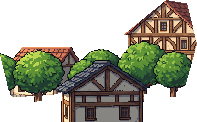
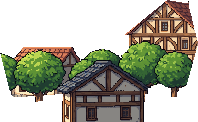
Tour des griffons : le pied dans l'herbe, sans pixels sur la maison
Le pied de la tour, coupé par la colline lisse de la maquette, finit en touffes d'herbe plutôt qu'en ligne droite
(seulement pour elle : ailleurs les touffes mangeaient des détails peints). Le décor de devant est bouché (la maquette de
la tour perçait le toit de la maison) et couvre aussi, sur 3 pixels, le bord peint d'un bâtiment qui déborde de sa
maquette.

diff --git a/tools/art/ville_scene.py b/tools/art/ville_scene.py
@@ -43,6 +43,32 @@ def bande(im):
     return im.crop((0, HAUT, im.width, HAUT + HAUTEUR))
 
 
+# les bâtiments dont le pied coupé par la colline finit en touffes (sur d'autres, elles mangeaient des détails peints :
+# les bouteilles sous l'étal du marché)
+TOUFFES = {"tour-griffons"}
+
+
+def touffes(src, k, toile, fond):
+    """Le pied d'un bâtiment coupé par la colline, en touffes d'herbe plutôt qu'en ligne droite : la colline de la
+    maquette est lisse, l'herbe n'est que peinte. Au-dessus de la coupe, l'herbe du fond se montre sur 0 à 5 pixels, en
+    brins inégaux, là où le sol sous la coupe est vert (pas sur la route). `toile` et `fond` : le rendu de 960 × 540."""
+    import random
+    cache = ImageChops.subtract(masque(os.path.join(src, "seul", k + ".png")),
+                                masque(os.path.join(src, "sur-sol", k + ".png"))).filter(ImageFilter.MaxFilter(5))
+    a = toile.getchannel("A"); ap, cp, fp = a.load(), cache.load(), fond.load()
+    hasard = random.Random(k)
+    for x in range(toile.width):
+        brin = hasard.choice([0, 1, 1, 2, 2, 3, 3, 4, 5])
+        for y in range(toile.height - 1):
+            if not ap[x, y] or not cp[x, y + 1]:
+                continue
+            r, g, b, _ = fp[x, y + 1]
+            if g > r and g > b:
+                for h in range(brin):
+                    ap[x, y - h] = 0
+    toile.putalpha(a)
+
+
 def sans_miettes(im, part=0.2):
     """Retire les morceaux détachés du bâtiment (8-connexes) plus petits que `part` du plus grand : ce que la coupe sous la
     colline laisse isolé (la porte de la Tour des archers, sous la colline) et les pixels perdus."""
@@ -90,7 +116,9 @@ def main():
     subprocess.run([sys.executable, "-I", os.path.join(src, "composer_scene.py"), "-jeu-vide"] + ids, stderr=subprocess.DEVNULL)
     if not os.path.exists(vide):
         sys.exit("composer_scene.py n'a pas fait le fond")
-    Image.open(vide).resize((960, HAUTEUR), Image.NEAREST).save(os.path.join(dest, "fond.png"))
+    fond = Image.open(vide).convert("RGBA").resize((960, HAUTEUR), Image.NEAREST)
+    fond.save(os.path.join(dest, "fond.png"))
+    fond_haut = Image.new("RGBA", (960, 540)); fond_haut.paste(fond, (0, HAUT))
     os.remove(vide)
     for f in ("scene-peinte-haute-jeu-vide.png", "planche-peints-jeu-vide.png"):
         if os.path.exists(os.path.join(src, f)): os.remove(os.path.join(src, f))
@@ -103,13 +131,18 @@ def main():
         """Le décor que rien ne cache devant le bâtiment k, les autres bâtiments retirés (rendre_devant.py) : sans eux,
         visible/decor.png manquait ce qu'un autre bâtiment cache dans la scène entière (devant la Tour des griffons)."""
         f = os.path.join(src, "decor-devant", k + ".png")
-        return ImageChops.multiply(masque(f if os.path.exists(f) else os.path.join(src, "visible", "decor.png")), decor.getchannel("A"))
+        vu = masque(f if os.path.exists(f) else os.path.join(src, "visible", "decor.png"))
+        # bouché : la maquette d'un bâtiment perce parfois une maison du décor (la Tour des griffons dans son toit)
+        vu = vu.filter(ImageFilter.MaxFilter(5)).filter(ImageFilter.MinFilter(5))
+        return ImageChops.multiply(vu, decor.getchannel("A"))
 
     batiments = []
     for k in sorted(ids, key=lambda k: -places[k]["profondeur"]):
         p = places[k]
         b = Image.open(os.path.join(src, "peints", k + ".png")).convert("RGBA").crop((0, 0, p["largeur"], p["hauteur"]))
         toile = Image.new("RGBA", decor.size); toile.alpha_composite(sans_miettes(sous_le_sol(src, k, p, b)), (p["x"], p["y"]))
+        if k in TOUFFES:
+            touffes(src, k, toile, fond_haut)
         im, x, y = rogner(bande(toile), marge=1)
         im.save(os.path.join(dest, k + ".png"))
         entree = {"id": k, "x": x, "y": y, "depth": p["profondeur"]}
@@ -132,7 +165,13 @@ def main():
                 entree.update({"shadowX": sx, "shadowY": sy})
         # le décor qui passe devant ce bâtiment (en 3D), redessiné juste après lui quand il est bâti
         devant = Image.new("RGBA", decor.size)
-        devant.paste(decor, (0, 0), ImageChops.multiply(masque(os.path.join(src, "seul", k + ".png")), decor_vu(k)))
+        # plus, à 3 pixels au plus, là où le bâtiment peint déborde de sa maquette (le bord de la Tour des griffons sur le
+        # toit de la maison) : seulement sur ce débord, pour ne pas montrer le décor caché derrière un autre bâtiment
+        seul = masque(os.path.join(src, "seul", k + ".png"))
+        vu = ImageChops.multiply(seul, decor_vu(k))
+        deborde = ImageChops.subtract(toile.getchannel("A").point(lambda v: 255 if v else 0), seul)
+        vu = ImageChops.lighter(vu, ImageChops.multiply(vu.filter(ImageFilter.MaxFilter(7)), deborde))
+        devant.paste(decor, (0, 0), ImageChops.multiply(vu, decor.getchannel("A")))
         devant = bande(devant)
         if devant.getbbox():
             im, fx, fy = rogner(devant)
